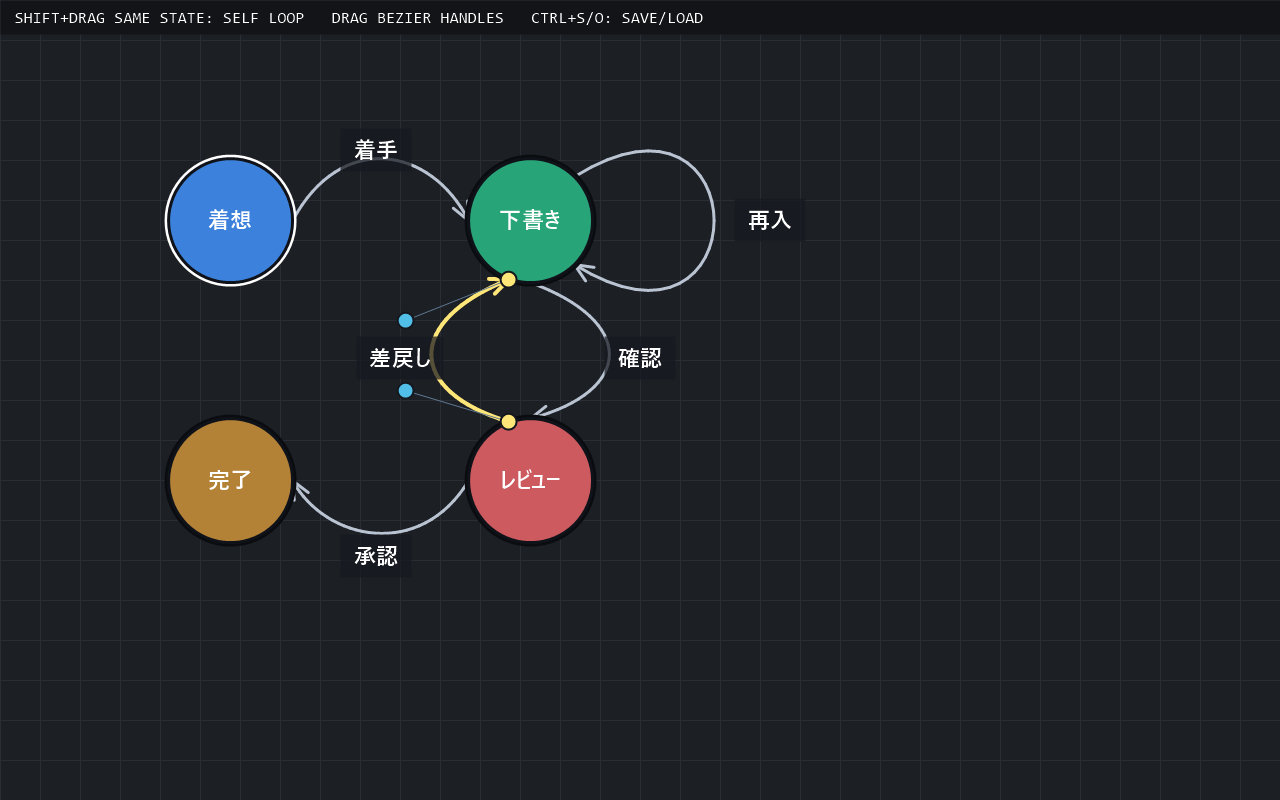
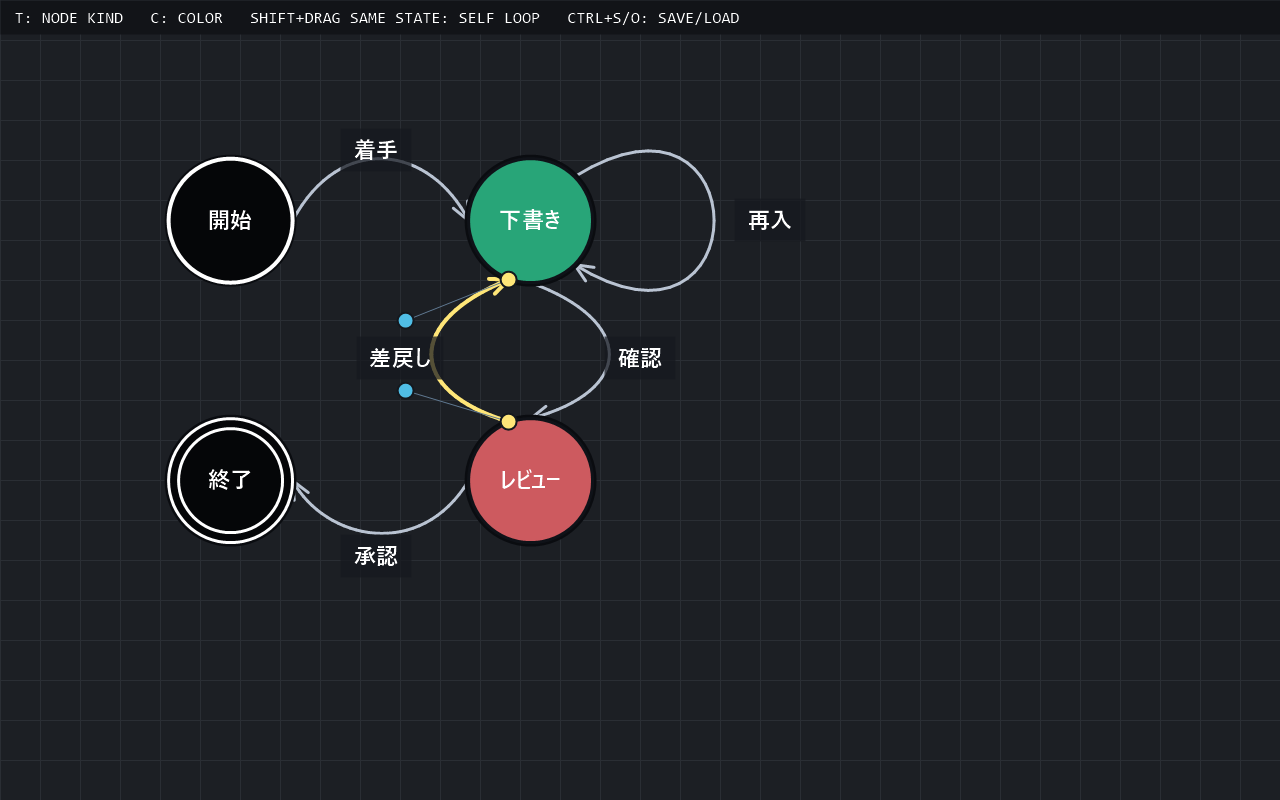
開始、終了ノードを作れたぜ（＾▽＾）！　素晴らしいぜ（＾▽＾）！

Changed region(s): [[0.125, 0.1875, 0.25, 0.375], [0.125, 0.5, 0.25, 0.6875], [0.0, 0.0, 0.5625, 0.0312]]

diff --git a/SkylarkStateTransitionDiagram/Game1.cs b/SkylarkStateTransitionDiagram/Game1.cs
@@ -48,7 +48,7 @@ public class Game1 : Game
     private Vector2 _dragOffset;
     private int _nextNodeId = 1;
     private string _editingLabel = string.Empty;
-    private string _status = "N: add  F2/ENTER: edit label  drag edge handles  SHIFT+drag: link  CTRL+S/O: save/load";
+    private string _status = "N: add  T: node kind  C: color  F2/ENTER: edit label  SHIFT+drag: link  CTRL+S/O: save/load";
     public Game1()
     {
         _graphics = new GraphicsDeviceManager(this)
@@ -177,10 +177,21 @@ public class Game1 : Game
             CreateSample();
             _status = "Sample diagram reset.";
         }
+        if (IsNewKeyPress(keyboard, Keys.T) && _selectedNode is not null)
+        {
+            ToggleNodeKind(_selectedNode);
+        }
         if (IsNewKeyPress(keyboard, Keys.C) && _selectedNode is not null)
         {
-            _selectedNode.ColorIndex = (_selectedNode.ColorIndex + 1) % Palette.Length;
-            _status = "Changed selected state color.";
+            if (_selectedNode.Kind == NodeKind.Normal)
+            {
+                _selectedNode.ColorIndex = (_selectedNode.ColorIndex + 1) % Palette.Length;
+                _status = "Changed selected state color.";
+            }
+            else
+            {
+                _status = "Start and end states use fixed black. Press T to return to normal.";
+            }
         }
         if (IsControlDown(keyboard) && IsNewKeyPress(keyboard, Keys.S))
         {
@@ -250,7 +261,22 @@ public class Game1 : Game
         _editingLabel = string.Empty;
         _status = "Label edit canceled.";
     }
-    private void ToggleTransitionLabelSide(DiagramTransition transition)
+    private void ToggleNodeKind(DiagramNode node)
+    {
+        node.Kind = node.Kind switch
+        {
+            NodeKind.Normal => NodeKind.Start,
+            NodeKind.Start => NodeKind.End,
+            _ => NodeKind.Normal
+        };
+
+        _status = node.Kind switch
+        {
+            NodeKind.Start => "Changed selected state kind to start.",
+            NodeKind.End => "Changed selected state kind to end.",
+            _ => "Changed selected state kind to normal."
+        };
+    }    private void ToggleTransitionLabelSide(DiagramTransition transition)
     {
         transition.LabelSide = transition.LabelSide == 0 ? 1 : 0;
         _status = "Edge label side flipped. Horizontal edges use top/bottom; vertical edges use left/right.";
@@ -332,7 +358,8 @@ public class Game1 : Game
             _draggedHandleTransition = null;
             _draggedHandleKind = TransitionHandleKind.None;
         }
-    }    private void AddNode(Vector2 position)
+    }
+    private void AddNode(Vector2 position)
     {
         var node = new DiagramNode
         {
@@ -437,10 +464,12 @@ public class Game1 : Game
         AddNode(new Vector2(530, 220));
         AddNode(new Vector2(530, 480));
         AddNode(new Vector2(230, 480));
-        _nodes[0].Label = "着想";
+        _nodes[0].Label = "開始";
+        _nodes[0].Kind = NodeKind.Start;
         _nodes[1].Label = "下書き";
         _nodes[2].Label = "レビュー";
-        _nodes[3].Label = "完了";
+        _nodes[3].Label = "終了";
+        _nodes[3].Kind = NodeKind.End;
         AddTransition(_nodes[0].Id, _nodes[1].Id);
         AddTransition(_nodes[1].Id, _nodes[2].Id);
         AddTransition(_nodes[2].Id, _nodes[1].Id);
@@ -474,7 +503,7 @@ public class Game1 : Game
         _transitions[4].ControlPoint2 = new Vector2(760, 380);
         _selectedNode = null;
         _selectedTransition = null;
-        _status = "N: add  F2/ENTER: edit label  drag Bezier handles  SHIFT+drag: link  C: color  DEL: delete  CTRL+S/O: save/load";
+        _status = "N: add  T: node kind  C: color  F2/ENTER: edit label  drag Bezier handles  CTRL+S/O: save/load";
     }
     private DiagramNode? FindNodeAt(Vector2 position)
     {
@@ -690,14 +719,26 @@ public class Game1 : Game
     }
     private void DrawNode(DiagramNode node, bool selected)
     {
-        var fill = Palette[node.ColorIndex % Palette.Length];
+        var fill = node.Kind == NodeKind.Normal ? Palette[node.ColorIndex % Palette.Length] : new Color(5, 6, 8);
         DrawCircle(node.Position, DiagramNode.Radius + 4, selected ? new Color(255, 255, 255) : new Color(10, 12, 16));
         DrawCircle(node.Position, DiagramNode.Radius, fill);
-        DrawCircleOutline(node.Position, DiagramNode.Radius, new Color(15, 18, 24), 3f);
+
+        if (node.Kind == NodeKind.Normal)
+        {
+            DrawCircleOutline(node.Position, DiagramNode.Radius, new Color(15, 18, 24), 3f);
+        }
+        else
+        {
+            DrawCircleOutline(node.Position, DiagramNode.Radius, Color.White, node.Kind == NodeKind.Start ? 4f : 3f);
+            if (node.Kind == NodeKind.End)
+            {
+                DrawCircleOutline(node.Position, DiagramNode.Radius - 10f, Color.White, 3f);
+            }
+        }
+
         var label = node == _editingNode ? _editingLabel + "_" : node.Label;
         DrawNodeLabel(label, node.Position, node == _editingNode);
-    }
-    private void DrawNodeLabel(string label, Vector2 center, bool editing)
+    }    private void DrawNodeLabel(string label, Vector2 center, bool editing)
     {
         var texture = GetLabelTexture(label, editing);
         var position = center - new Vector2(texture.Width / 2f, texture.Height / 2f);
@@ -968,6 +1009,13 @@ public sealed class DiagramNode
     public string Label { get; set; } = string.Empty;
     public Vector2 Position { get; set; }
     public int ColorIndex { get; set; }
+    public NodeKind Kind { get; set; }
+}
+public enum NodeKind
+{
+    Normal,
+    Start,
+    End
 }
 public sealed class DiagramTransition
 {

diff --git a/SkylarkStateTransitionDiagram/Docs/使い方説明書.md b/SkylarkStateTransitionDiagram/Docs/使い方説明書.md
@@ -9,9 +9,7 @@ SkylarkStateTransitionDiagram は、状態と遷移を画面上に並べて、AI
 リポジトリーのトップで次のコマンドを実行します。
 
 ```powershell
-
 dotnet run --project .\SkylarkStateTransitionDiagram\SkylarkStateTransitionDiagram.csproj
-
 ```
 
 Visual Studio から起動する場合は、`SkylarkStateTransitionDiagram.slnx` を開いて実行します。
@@ -21,6 +19,7 @@ Visual Studio から起動する場合は、`SkylarkStateTransitionDiagram.slnx`
 ![サンプル状態遷移図の画面例](images/screenshot-sample.png)
 
 - 丸い図形が「状態」です。
+- 黒い状態は、開始ノードまたは終了ノードです。
 
 - 状態の中には日本語ラベルを表示できます。
 
@@ -40,24 +39,17 @@ Visual Studio から起動する場合は、`SkylarkStateTransitionDiagram.slnx`
 ## 図の部品
 
 | 見た目 | 意味 |
-
 | --- | --- |
-
 | <img src="images/icon-thumbnail-64.png" alt="アプリアイコン" width="32"> | このツールのアプリアイコンです。 |
-
-| 青・緑・赤・黄土色などの丸 | 状態を表します。 |
-
+| 青・緑・赤・黄土色などの丸 | 通常ノードを表します。 |
+| 黒い丸 | 開始ノードまたは終了ノードを表します。 |
+| 黒い二重丸 | 終了ノードを表します。 |
 | 白い縁取りの丸 | 選択中の状態です。 |
-
 | 矢印 | 状態から状態への遷移です。 |
-
 | 選択中の遷移の黄色い丸 | 遷移の始点・終点の接点ハンドルです。ドラッグして円周上を動かせます。 |
 | 選択中の遷移の青い丸 | 3 次ベジェ曲線の制御点です。ドラッグしてエッジを曲げられます。 |
-
 | 黄色い矢印 | 選択中の遷移です。 |
-
 | 矢印の近くの文字 | 遷移ラベルです。 |
-
 | グリッド線 | 配置の目安です。 |
 
 ## 状態を追加する
@@ -150,6 +142,14 @@ Visual Studio から起動する場合は、`SkylarkStateTransitionDiagram.slnx`
 
 - 選択中の遷移は黄色で表示されます。
 
+## ノード種別を切り替える
+
+1. 種別を変えたい状態を選択します。
+2. `T` キーを押します。
+3. `通常 -> 開始 -> 終了 -> 通常` の順に切り替わります。
+
+開始ノードと終了ノードは黒固定です。終了ノードは二重丸で表示されます。
+
 ## 色を変える
 
 1. 色を変えたい状態を選択します。
@@ -157,6 +157,8 @@ Visual Studio から起動する場合は、`SkylarkStateTransitionDiagram.slnx`
 2. `C` キーを押します。
 
 3. 状態の色が次の色に切り替わります。
+
+開始ノードと終了ノードは黒固定のため、`C` キーでは色が変わりません。`T` キーで通常ノードに戻すと色を変えられます。
 
 ## 削除する
 
@@ -173,9 +175,7 @@ Visual Studio から起動する場合は、`SkylarkStateTransitionDiagram.slnx`
 保存先は、実行中のアプリケーションの出力フォルダーです。通常のデバッグ実行では次の場所です。保存ファイルは UTF-8 BOM なしで書き込まれます。
 
 ```text
-
 SkylarkStateTransitionDiagram/bin/Debug/net8.0-windows/diagram.json
-
 ```
 
 ## 読み込む
@@ -197,39 +197,24 @@ SkylarkStateTransitionDiagram/bin/Debug/net8.0-windows/diagram.json
 ## ショートカット一覧
 
 | 操作 | キー / マウス |
-
 | --- | --- |
-
 | 状態を追加 | `N` |
-
 | 状態を移動 | 状態を左ドラッグ |
-
+| 選択中の状態の種別を切り替え | `T` |
 | 選択中の状態または遷移のラベルを編集 | `F2` / `Enter` |
-
 | ラベル編集を確定 | 編集中に `Enter` |
-
 | ラベル編集をキャンセル | 編集中に `Esc` |
-
 | 遷移を作成 | `Shift` + 状態から状態へ左ドラッグ |
 | 自己ループを作成 | `Shift` + 同じ状態上で左ドラッグして離す |
-
 | 遷移ラベルの位置を切り替え | 遷移選択中に `Tab` |
-
 | 遷移の接点を移動 | 選択中の遷移の黄色い丸を左ドラッグ |
 | 遷移の曲がり方を変更 | 選択中の遷移の青い丸を左ドラッグ |
-
 | 状態または遷移を選択 | 左クリック |
-
 | 選択中の状態の色を変更 | `C` |
-
 | 選択中の状態または遷移を削除 | `Delete` / `Backspace` |
-
 | 保存 | `Ctrl + S` |
-
 | 読込 | `Ctrl + O` |
-
 | サンプル図に戻す | `R` |
-
 | 終了 | `Esc` |
 
 ## 困ったとき

diff --git a/SkylarkStateTransitionDiagram/Docs/【これは人間専用】/【これは人間専用】メモ.md b/SkylarkStateTransitionDiagram/Docs/【これは人間専用】/【これは人間専用】メモ.md
@@ -73,4 +73,13 @@
 おー、自己ループを楕円形の３次ベジェ曲線で描けたぜ（＾▽＾）！　素晴らしいぜ（＾▽＾）！
 
 
+開始ノードと終了ノードも欲しいんで、ノードで作ってみたんだが、黒色が選べないんだな（＾～＾）
+パレットでも出てくるようにするかだぜ（＾～＾）？
+２４万色とか選べるのは逆に不便なんで、厳選された色だけ選べればいいんだけど（＾～＾）
+もし色にこだわる人がいたら、あとで設定ファイルで色を指定するようにすればいいし（＾～＾）
+
+
+開始、終了ノードを作れたぜ（＾▽＾）！　素晴らしいぜ（＾▽＾）！  
+
+
 ★ 色覚異常の人にどう見えているか確認するライブラリーとして `Wacton.Unicolour` があるらしい（＾～＾）  